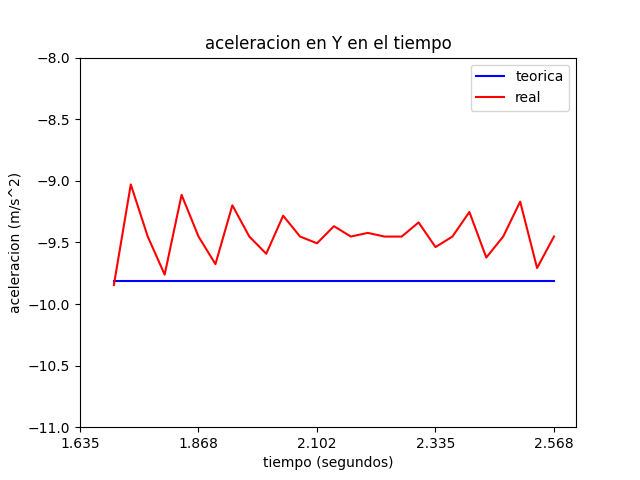
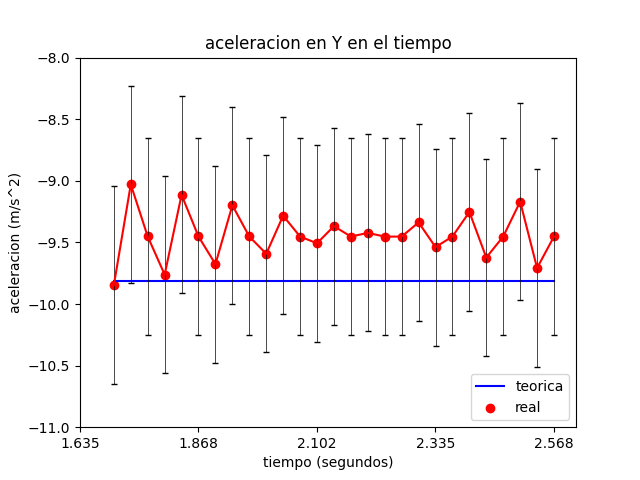
fix graficos velocidad y aceleracion

diff --git a/src/basket-doble/pandas_procesing.py b/src/basket-doble/pandas_procesing.py
@@ -97,7 +97,7 @@ def graficar_velocidad_tiempo(tabla, coordenada, guardar_grafica=None, mostrar_g
     # tipo de grafico y variables a usar
     fig, ax = plt.subplots()
     ax.plot(tiempo, velocidad_teorica, color="blue", label="teorica")
-    ax.scatter(tiempo, velocidad, color="red", label="real")
+    ax.scatter(tiempo, velocidad, color="red", label="real", s=0.1)
     ax.legend()
     # etiquetas
     plt.xlabel('tiempo (segundos)')
@@ -105,7 +105,7 @@ def graficar_velocidad_tiempo(tabla, coordenada, guardar_grafica=None, mostrar_g
     # titulo
     plt.title('velocidad en ' + coordenada + ' en el tiempo')
 
-    plt.errorbar(tiempo, velocidad, yerr=error, color='red', ecolor='black', elinewidth=0.5, capsize=2)
+    plt.errorbar(tiempo, velocidad, yerr=error, fmt='o', color='red', ecolor='black', elinewidth=0.5, capsize=2)
 
     ajustar_etiquetas_tiempo(ax, tabla["Time"], 5)
 
@@ -165,6 +165,7 @@ def graficar_aceleracion_tiempo(tabla, coordenada, guardar_grafica=None, mostrar
     Returns:
         None
     """
+    error = 0.8
     accCoor = "acceleration" + coordenada
     aceleracion = tabla[accCoor].iloc[2:]
     aceleracion_teorica = tabla["acc_" + coordenada + "_teorica"].iloc[2:]
@@ -172,7 +173,7 @@ def graficar_aceleracion_tiempo(tabla, coordenada, guardar_grafica=None, mostrar
     fig, ax = plt.subplots()
     # tipo de grafico y variables a usar
     ax.plot(tiempo, aceleracion_teorica, color="blue", label="teorica")
-    ax.plot(tiempo, aceleracion, color="red", label="real")
+    ax.scatter(tiempo, aceleracion, color="red", label="real")
     ax.legend()
     # etiquetas
     plt.xlabel('tiempo (segundos)')
@@ -180,6 +181,7 @@ def graficar_aceleracion_tiempo(tabla, coordenada, guardar_grafica=None, mostrar
     # titulo
     plt.title('aceleracion en ' + coordenada + ' en el tiempo')
     plt.ylim(-11, -8)
+    plt.errorbar(tiempo, aceleracion, yerr=error, color='red', ecolor='black', elinewidth=0.5, capsize=2)
     ajustar_etiquetas_tiempo(ax, tabla["Time"], 5)
     if guardar_grafica:
         plt.savefig(RUTA_CARPETA_IMAGENES + "aceleracion_tiempo_" + coordenada + ".png")
